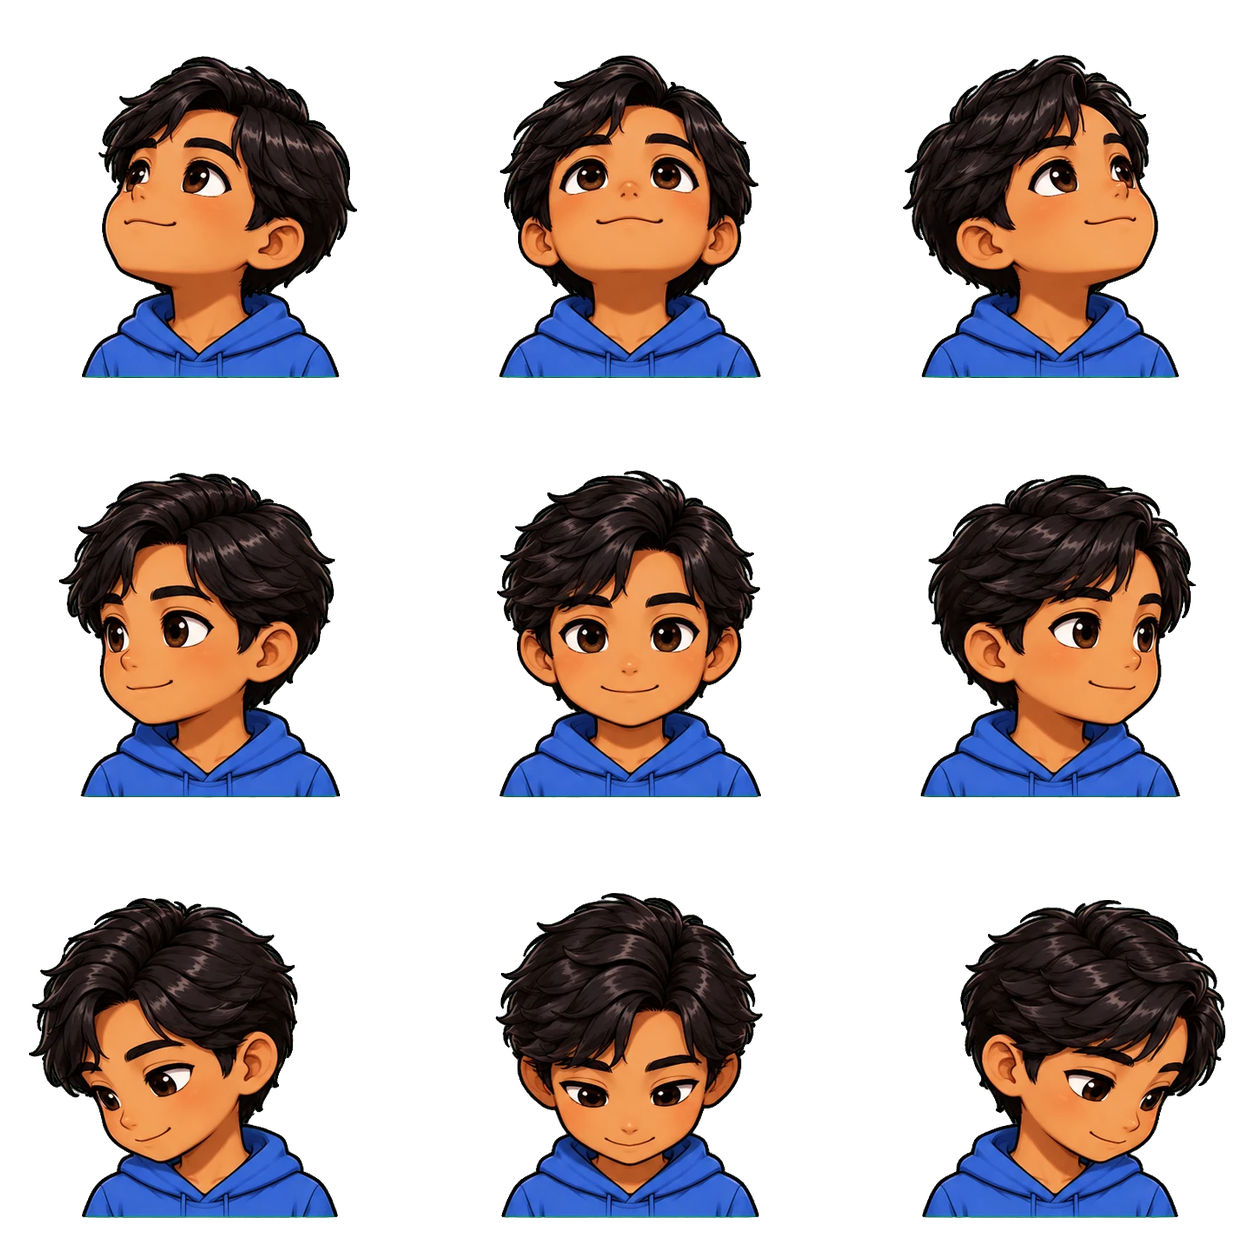
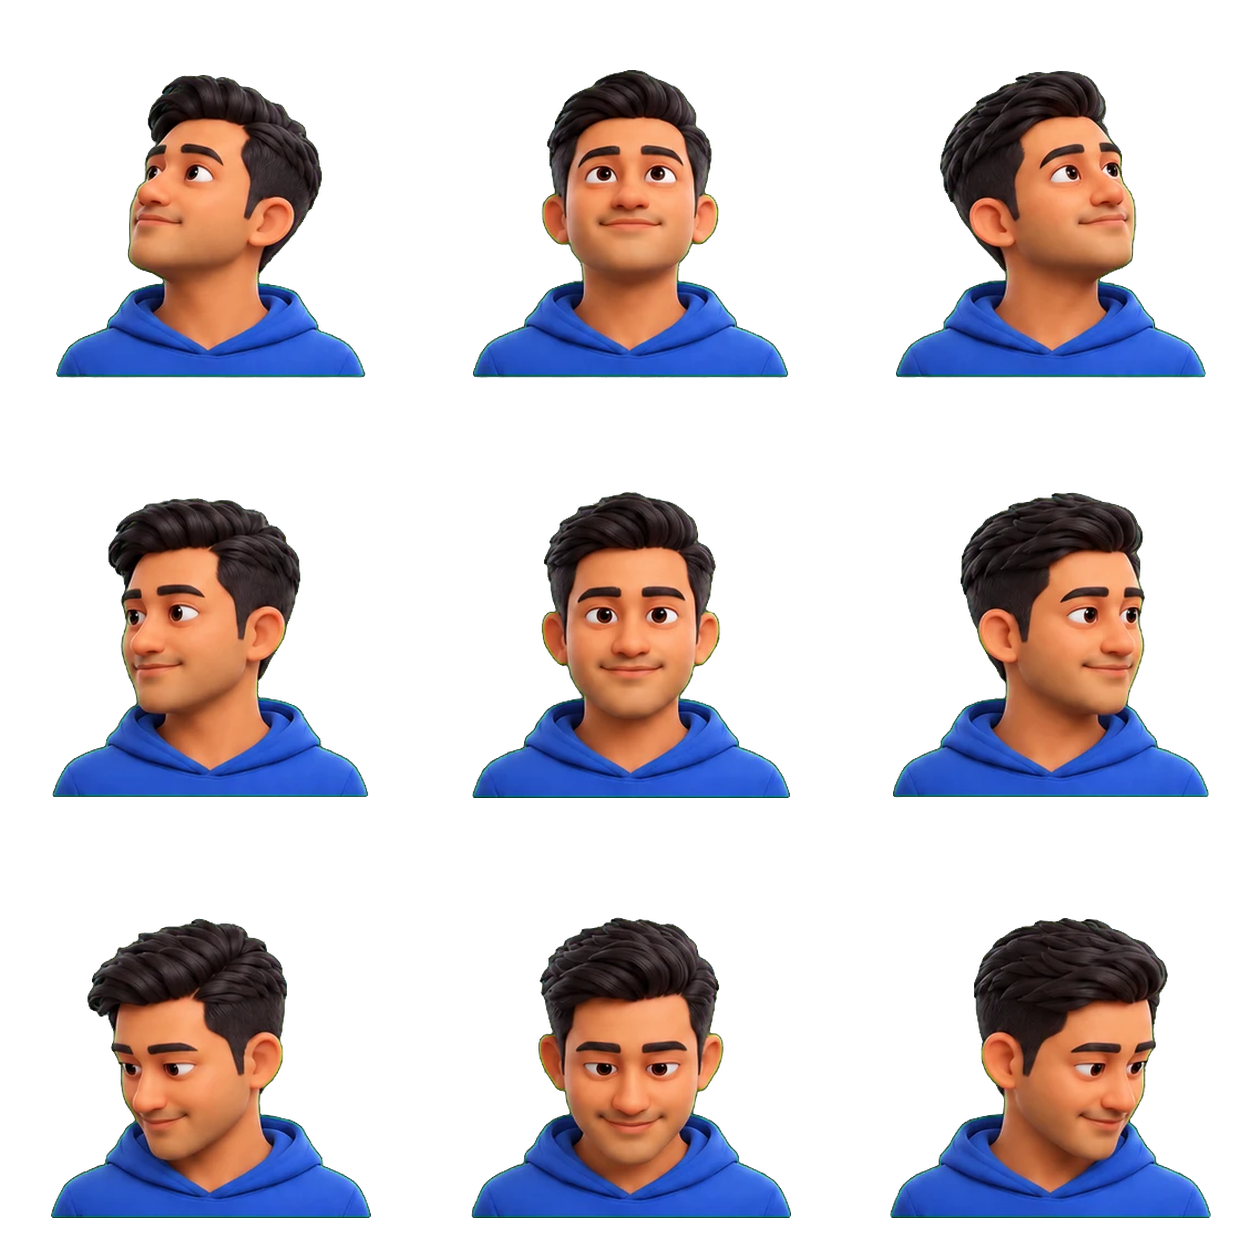
feat: replace the v2 sprite with the young-adult character
Swaps the illustrated mascot's artwork for the new 3D-style character:
both sheets re-keyed, re-gridded at one shared scale and rebuilt with
the page-mascot skill (shoulder anchor; verified at 0px shift between
sheets). The launcher shows it larger and positions the thought bubble
and dots against the head.

Adds characters/prepare_sheet.py, the despill and re-grid step that
makes AI-drawn sheets acceptable to the build, and a version query on
the atlas URLs so browsers drop the previous artwork.

diff --git a/briz-web/src/app/dev/mascot/page.tsx b/briz-web/src/app/dev/mascot/page.tsx
@@ -3,7 +3,7 @@
 // Client page: the expression list is exported from a client module.
 import { BrizShopper, SHOPPER_EXPRESSIONS } from "@/components/briz-shopper";
 import { BrizFace } from "@/components/briz-face";
-import { BrizSprite, SPRITE_DIRECTIONS } from "@/components/briz-sprite";
+import { BrizSprite, SPRITE_DIRECTIONS, SPRITE_HAS_EXPRESSIONS } from "@/components/briz-sprite";
 
 const cell = { display: "grid", justifyItems: "center", gap: 12, padding: 24, border: "1px solid var(--border)", borderRadius: 16, background: "var(--card)" } as const;
 
@@ -14,17 +14,19 @@ export default function MascotGallery() {
       <style>{`.mascot-cell{scroll-margin-top:120px}.mascot-cell:target{border-color:var(--primary)!important;box-shadow:0 0 0 4px var(--primary-container)}`}</style>
       <h1 style={{ margin: "0 0 8px", fontSize: 28, letterSpacing: "-0.02em" }}>Briz mascot v2 — illustrated</h1>
       <p style={{ margin: "0 0 32px", color: "var(--muted-foreground)" }}>The illustrated character: nine expressions, then the nine head directions it uses to follow the cursor.</p>
-      <div style={{ display: "grid", gridTemplateColumns: "repeat(auto-fill, minmax(180px, 1fr))", gap: 16, marginBottom: 24 }}>
-        {SHOPPER_EXPRESSIONS.map((expression) => (
-          <figure key={expression} style={{ ...cell, margin: 0 }}>
-            <BrizSprite expression={expression} size={132} title={`Briz illustrated mascot, ${expression}`} />
-            <figcaption style={{ fontSize: 14, fontWeight: 600 }}>{expression}</figcaption>
-          </figure>
-        ))}
-      </div>
+      {SPRITE_HAS_EXPRESSIONS && (
+        <div style={{ display: "grid", gridTemplateColumns: "repeat(auto-fill, minmax(180px, 1fr))", gap: 16, marginBottom: 24 }}>
+          {SHOPPER_EXPRESSIONS.map((expression) => (
+            <figure key={expression} style={{ ...cell, margin: 0 }}>
+              <BrizSprite expression={expression} size={132} title={`Briz illustrated mascot, ${expression}`} />
+              <figcaption style={{ fontSize: 14, fontWeight: 600 }}>{expression}</figcaption>
+            </figure>
+          ))}
+        </div>
+      )}
       <div style={{ display: "flex", flexWrap: "wrap", gap: 12, marginBottom: 64 }}>
         {SPRITE_DIRECTIONS.map((direction) => (
-          <BrizSprite key={direction} direction={direction} size={72} title={`Looking ${direction}`} />
+          <BrizSprite key={direction} direction={direction} size={SPRITE_HAS_EXPRESSIONS ? 72 : 120} title={`Looking ${direction}`} />
         ))}
       </div>
 

diff --git a/briz-web/src/components/briz-sprite.tsx b/briz-web/src/components/briz-sprite.tsx
@@ -25,8 +25,12 @@ interface BrizSpriteProps {
 
 // Two 3×3 atlases built with the page-mascot skill and verified to line up
 // (0px shift between them). Expressions are in SHOPPER_EXPRESSIONS order.
-const DIRECTIONS_ATLAS = "/mascots/briz-v2-directions.webp";
-const REACTIONS_ATLAS = "/mascots/briz-v2-reactions.webp";
+// Bump the version when the artwork changes, so browsers drop the cached sheet.
+const DIRECTIONS_ATLAS = "/mascots/briz-v2-directions.webp?v=3";
+const REACTIONS_ATLAS = "/mascots/briz-v2-reactions.webp?v=3";
+// Set to false while a character has only its head-directions sheet: expressions
+// then fall back to the face-forward direction cell.
+export const SPRITE_HAS_EXPRESSIONS = true;
 
 /**
  * Briz mascot v2 (illustrated): one character drawn in nine head directions and
@@ -34,8 +38,11 @@ const REACTIONS_ATLAS = "/mascots/briz-v2-reactions.webp";
  * the cursor costs no re-render.
  */
 export const BrizSprite = memo(function BrizSprite({ expression, direction, size = 96, className, title }: BrizSpriteProps) {
-  const index = expression
+  const showExpression = Boolean(expression) && SPRITE_HAS_EXPRESSIONS;
+  const index = showExpression && expression
     ? SHOPPER_EXPRESSIONS.indexOf(expression)
+    : expression
+    ? SPRITE_DIRECTIONS.indexOf("center")
     : direction
     ? SPRITE_DIRECTIONS.indexOf(direction)
     : -1;
@@ -46,7 +53,7 @@ export const BrizSprite = memo(function BrizSprite({ expression, direction, size
     display: "block",
     width: size,
     height: size,
-    backgroundImage: `url(${expression ? REACTIONS_ATLAS : DIRECTIONS_ATLAS})`,
+    backgroundImage: `url(${showExpression ? REACTIONS_ATLAS : DIRECTIONS_ATLAS})`,
     backgroundSize: "300% 300%",
     backgroundRepeat: "no-repeat",
     backgroundPosition: `calc(${column} * 50%) calc(${row} * 50%)`,

diff --git a/briz-web/src/components/request-shopper-launcher.tsx b/briz-web/src/components/request-shopper-launcher.tsx
@@ -3,13 +3,15 @@
 import { memo } from "react";
 import { BrizFace } from "./briz-face";
 import { BrizShopper } from "./briz-shopper";
-import { BrizSprite } from "./briz-sprite";
+import { BrizSprite, SPRITE_HAS_EXPRESSIONS } from "./briz-sprite";
 import styles from "./request-product-widget.module.css";
 
 const SHOPPER_SIZE = 76;
 const FACE_SIZE = 76;
 
-const SPRITE_SIZE = 92;
+// The sprite cell keeps empty room above the head for floating symbols, so the
+// box is larger than the character it shows.
+const SPRITE_SIZE = 128;
 
 export type LauncherCharacter = "shopper" | "face" | "seller" | "sprite";
 
@@ -42,8 +44,13 @@ export const ShopperLauncherContent = memo(function ShopperLauncherContent({
         </span>
         <span className={styles.shopperActive}>
           {character === "sprite" ? (
-            // Engaged: the puzzled face.
-            <BrizSprite size={SPRITE_SIZE} expression="confused" />
+            // Engaged: the puzzled face, or a glance up at the thought bubble until
+            // the character's expressions sheet exists.
+            SPRITE_HAS_EXPRESSIONS ? (
+              <BrizSprite size={SPRITE_SIZE} expression="confused" />
+            ) : (
+              <BrizSprite size={SPRITE_SIZE} direction="up-left" />
+            )
           ) : character !== "shopper" ? (
             <BrizFace size={FACE_SIZE} persona={character === "seller" ? "seller" : "shopper"} expression="confused" hideMark />
           ) : (

diff --git a/briz-web/src/components/request-product-widget.module.css b/briz-web/src/components/request-product-widget.module.css
@@ -623,6 +623,28 @@
   left: -22px;
 }
 
+/* Illustrated sprite (mascot v2): the head sits in the lower-middle of a larger
+   cell, so the dots and bubble are placed against the head, not the cell edge. */
+.widgetButton[data-character="sprite"] .thought {
+  top: -14px;
+  right: calc(100% - 6px);
+}
+
+.widgetButton[data-character="sprite"] .thoughtDotSmall {
+  top: 44px;
+  left: 24px;
+}
+
+.widgetButton[data-character="sprite"] .thoughtDotLarge {
+  top: 30px;
+  left: 9px;
+}
+
+.widgetButton[data-character="sprite"] .shopperStage {
+  /* pull the empty strip under the shoulders off the bottom edge */
+  margin-bottom: -10px;
+}
+
 @media (prefers-reduced-motion: reduce) {
   .shopperIdle,
   .shopperActive,
@@ -737,6 +759,28 @@
 
   .widgetButton[data-character="face"] .thought {
     top: -36px;
+  }
+
+  .widgetButton[data-character="sprite"] .shopperIdle > span,
+  .widgetButton[data-character="sprite"] .shopperActive > span {
+    width: 104px !important;
+    height: 104px !important;
+  }
+
+  .widgetButton[data-character="sprite"] .thought {
+    top: -14px;
+    right: calc(100% - 6px);
+    max-width: calc(100vw - 32px - 98px);
+  }
+
+  .widgetButton[data-character="sprite"] .thoughtDotSmall {
+    top: 36px;
+    left: 20px;
+  }
+
+  .widgetButton[data-character="sprite"] .thoughtDotLarge {
+    top: 25px;
+    left: 8px;
   }
 
   .widgetButton[data-character="face"] .thoughtDotSmall {

diff --git a/briz-web/src/components/request-product-widget.tsx b/briz-web/src/components/request-product-widget.tsx
@@ -1467,7 +1467,7 @@ export function RequestProductWidget({
               onClick={handleClick}
               ref={launcherRef}
               data-variant={isCharacter ? "shopper" : variant}
-              data-character={isFace ? "face" : variant}
+              data-character={variant === "sprite" ? "sprite" : isFace ? "face" : variant}
               data-theme={theme}
               aria-label="Request a product"
               aria-expanded={expanded}

diff --git a/briz-web/characters/prepare_sheet.py b/briz-web/characters/prepare_sheet.py
@@ -1,0 +1,97 @@
+"""Clean an AI-drawn 3x3 mascot sheet so the page-mascot build accepts it.
+
+    python prepare_sheet.py <keyed.png> <out.png> [--scale-file scale.txt]
+
+Expects the green background to be removed already (page-mascot's key.py). Then:
+
+1. Despill: the character has no green of its own, so any green-dominant pixel
+   left at the edges is key spill and is pulled back to neutral.
+2. Re-grid: image models rarely space the nine drawings evenly, and an even 3x3
+   cut then slices through heads. Each drawing is found as a connected blob
+   (floating symbols are attached to the nearest one) and placed in its own even
+   cell, centred on the shoulders, on a shared baseline.
+
+Both sheets of a character must use the same scale or they will not line up.
+The first sheet processed writes its scale to --scale-file; the second reads it.
+Process the expressions sheet first: its floating symbols need the most room.
+"""
+import os
+import sys
+
+import numpy as np
+from PIL import Image
+from scipy import ndimage
+
+CELL = 420
+BASELINE = 0.90      # where the bottom of the shoulders lands down the cell
+MAX_HEIGHT = 0.78    # tallest drawing, as a fraction of the cell
+MAX_WIDTH = 0.86
+MAX_WITH_SYMBOLS = 0.87
+
+source, destination = sys.argv[1], sys.argv[2]
+scale_file = sys.argv[sys.argv.index('--scale-file') + 1] if '--scale-file' in sys.argv else None
+
+pixels = np.array(Image.open(source).convert('RGBA')).astype(np.int16)
+red, green, blue = pixels[..., 0], pixels[..., 1], pixels[..., 2]
+limit = np.maximum(red, blue)
+pixels[..., 1] = np.where(green > limit + 6, limit, green)
+pixels = pixels.astype(np.uint8)
+
+solid = pixels[..., 3] > 40
+labels, count = ndimage.label(solid)
+ids = np.arange(1, count + 1)
+sizes = ndimage.sum(solid, labels, ids)
+order = np.argsort(sizes)[::-1]
+if count < 9:
+    sys.exit(f'expected nine drawings, found {count} -- are two of them touching?')
+mains = [int(ids[i]) for i in order[:9]]
+extras = [int(ids[i]) for i in order[9:] if sizes[i] > 60]
+centres = {k: ndimage.center_of_mass(labels == k) for k in mains + extras}
+groups = {k: [k] for k in mains}
+for extra in extras:
+    nearest = min(mains, key=lambda m: (centres[m][0] - centres[extra][0]) ** 2 + (centres[m][1] - centres[extra][1]) ** 2)
+    groups[nearest].append(extra)
+
+
+def bounds(mask):
+    ys, xs = np.where(mask)
+    return ys.min(), ys.max(), xs.min(), xs.max()
+
+
+boxes = {k: bounds(labels == k) for k in mains}
+by_row = sorted(mains, key=lambda k: boxes[k][0])
+grid = [sorted(by_row[i:i + 3], key=lambda k: boxes[k][2]) for i in (0, 3, 6)]
+
+if scale_file and os.path.exists(scale_file):
+    scale = float(open(scale_file).read())
+else:
+    tallest = max(b[1] - b[0] for b in boxes.values())
+    widest = max(b[3] - b[2] for b in boxes.values())
+    # A drawing plus its floating symbol must also fit above the baseline.
+    with_symbols = max(boxes[k][1] - bounds(np.isin(labels, groups[k]))[0] for k in mains)
+    scale = min(MAX_HEIGHT * CELL / tallest, MAX_WIDTH * CELL / widest, MAX_WITH_SYMBOLS * CELL / with_symbols)
+    if scale_file:
+        open(scale_file, 'w').write(f'{scale:.5f}')
+
+sheet = Image.new('RGBA', (CELL * 3, CELL * 3), (0, 0, 0, 0))
+for row, cells in enumerate(grid):
+    for column, k in enumerate(cells):
+        top, bottom, left, right = boxes[k]
+        body = labels[top:bottom + 1, left:right + 1] == k
+        shoulders = np.where(body[int(body.shape[0] * 0.88):].any(0))[0]
+        centre = left + (shoulders.min() + shoulders.max()) / 2
+        mask = np.isin(labels, groups[k])
+        g_top, g_bottom, g_left, g_right = bounds(mask)
+        crop = pixels[g_top:g_bottom + 1, g_left:g_right + 1].copy()
+        crop[~mask[g_top:g_bottom + 1, g_left:g_right + 1]] = 0
+        drawing = Image.fromarray(crop).resize(
+            (round(crop.shape[1] * scale), round(crop.shape[0] * scale)), Image.LANCZOS)
+        x = round(column * CELL + CELL / 2 - (centre - g_left) * scale)
+        y = round(row * CELL + CELL * BASELINE - (bottom - g_top + 1) * scale)
+        if y < row * CELL or x < column * CELL - 2 or x + drawing.width > (column + 1) * CELL + 2:
+            sys.exit(f'drawing {row * 3 + column + 1} does not fit its cell at scale {scale:.3f}')
+        sheet.alpha_composite(drawing, (x, y))
+
+sheet.save(destination)
+symbols = sum(len(v) - 1 for v in groups.values())
+print(f'{os.path.basename(destination)}: 9 drawings, {symbols} floating symbols, scale {scale:.3f}')
